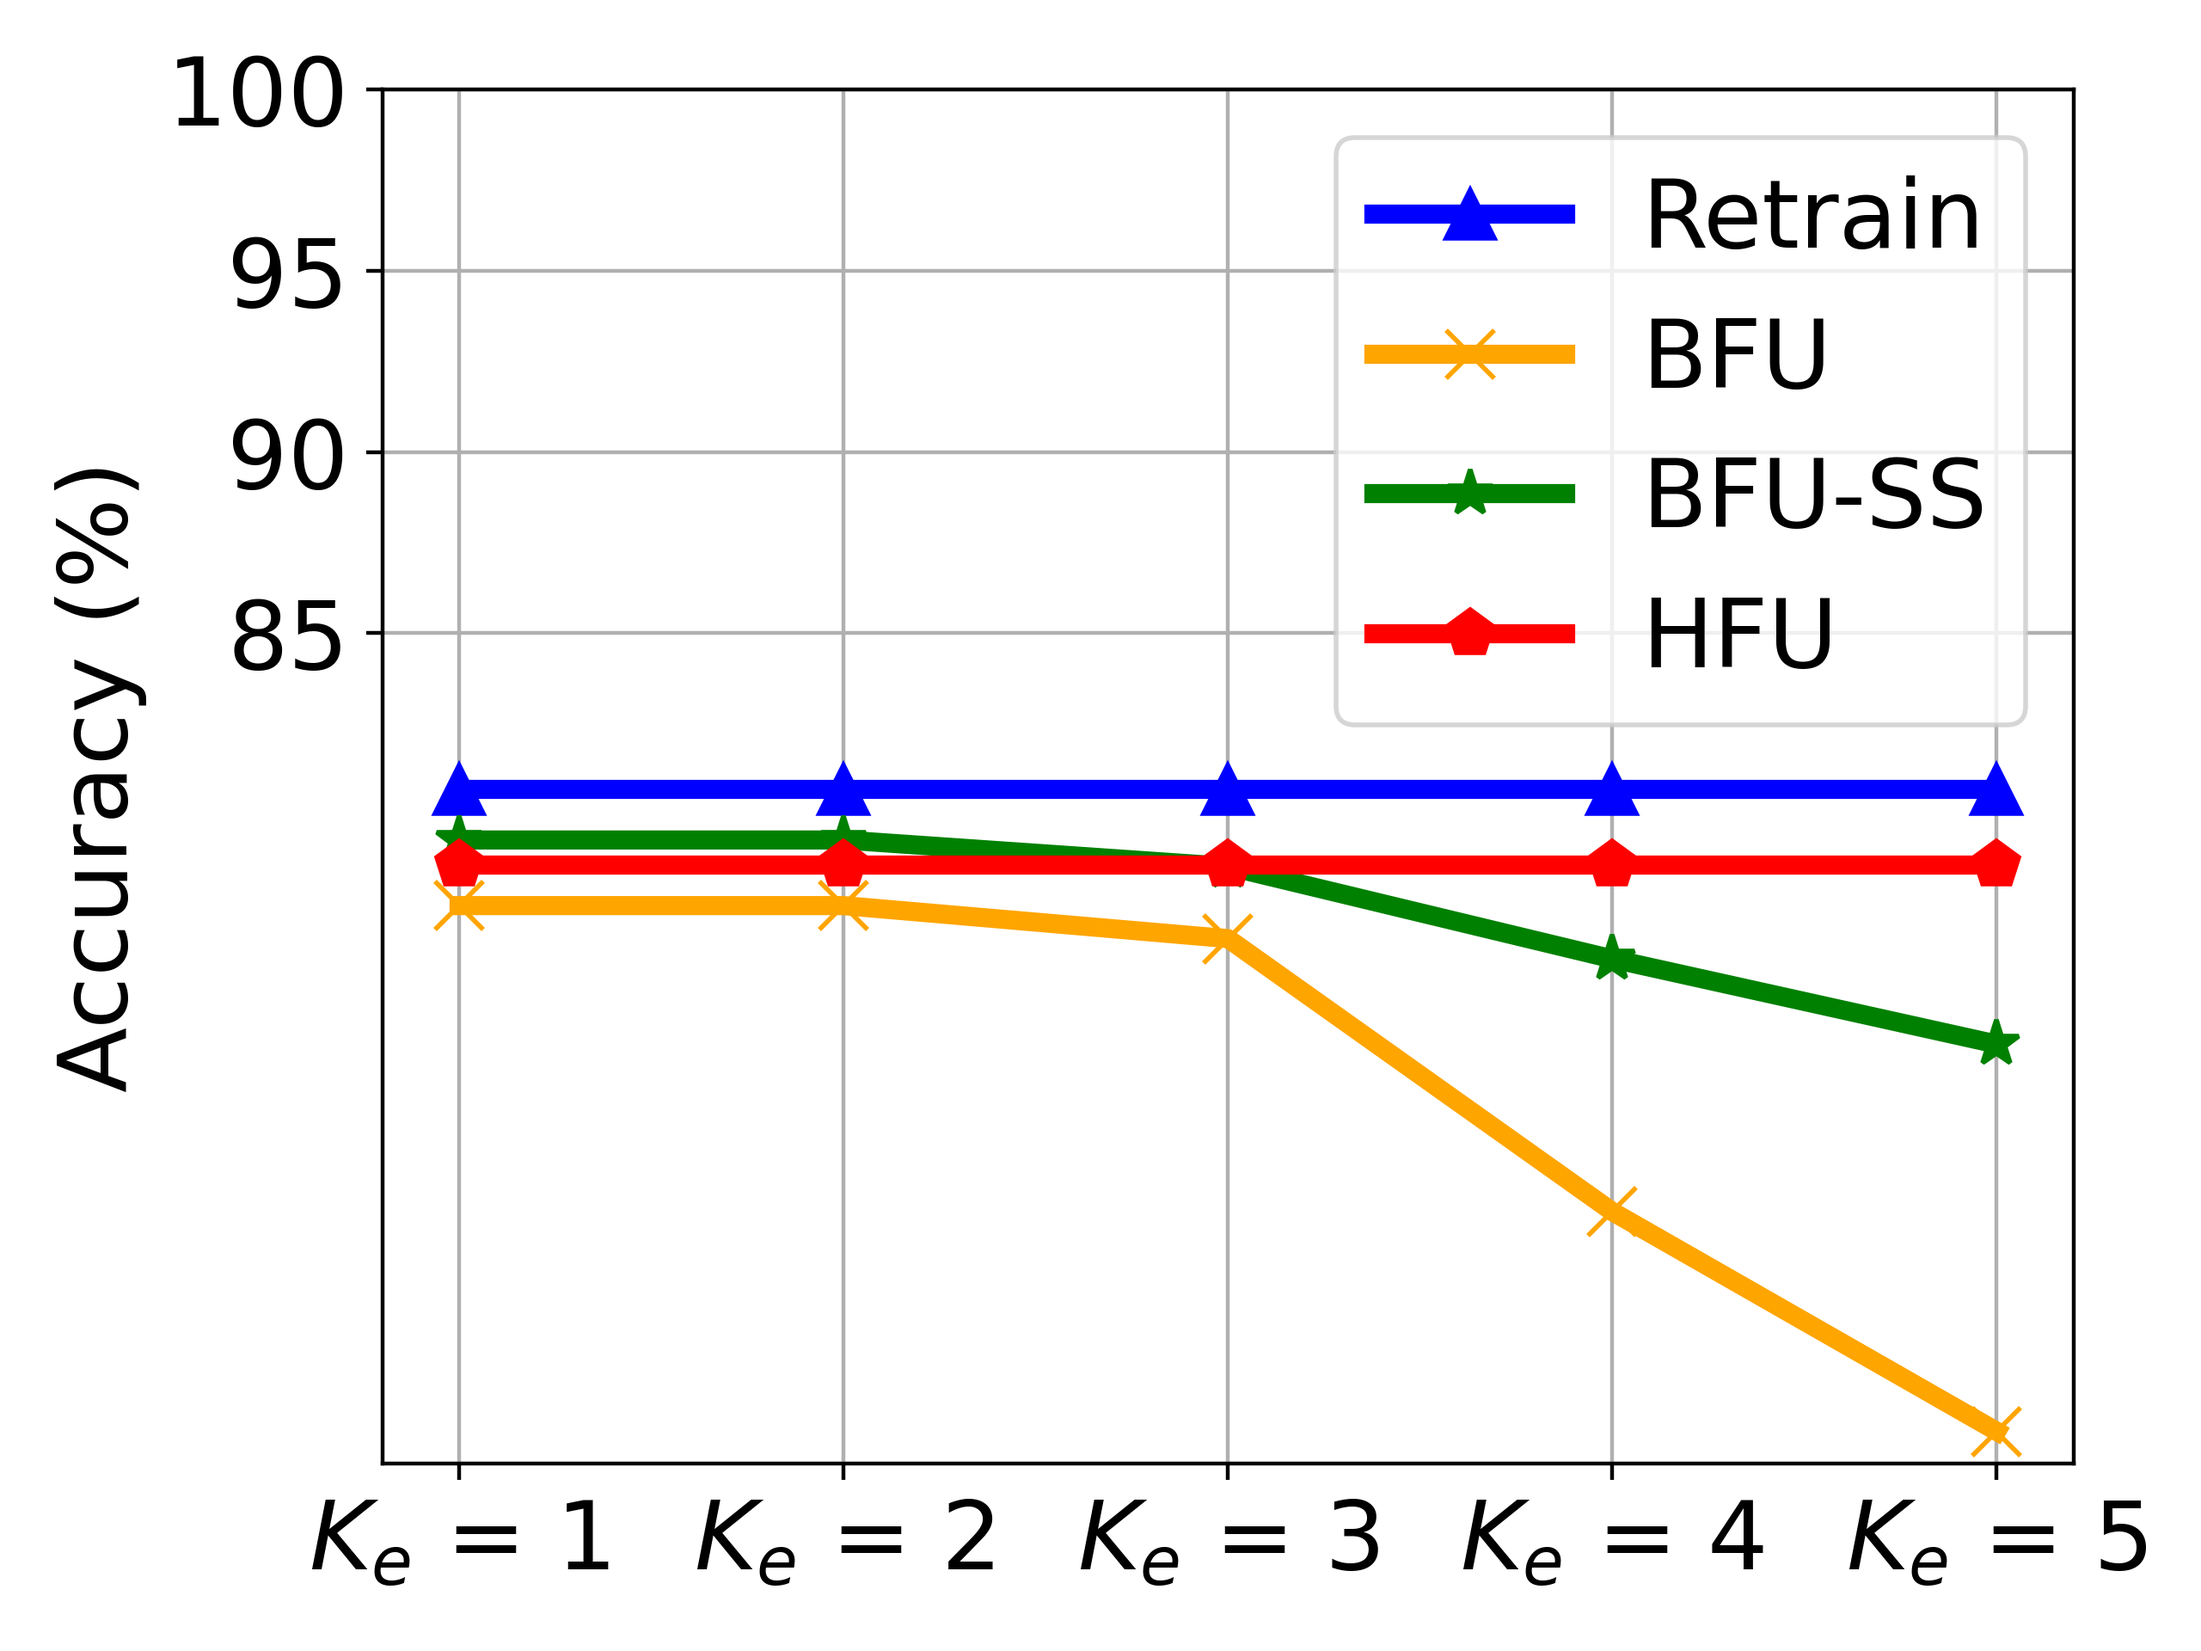
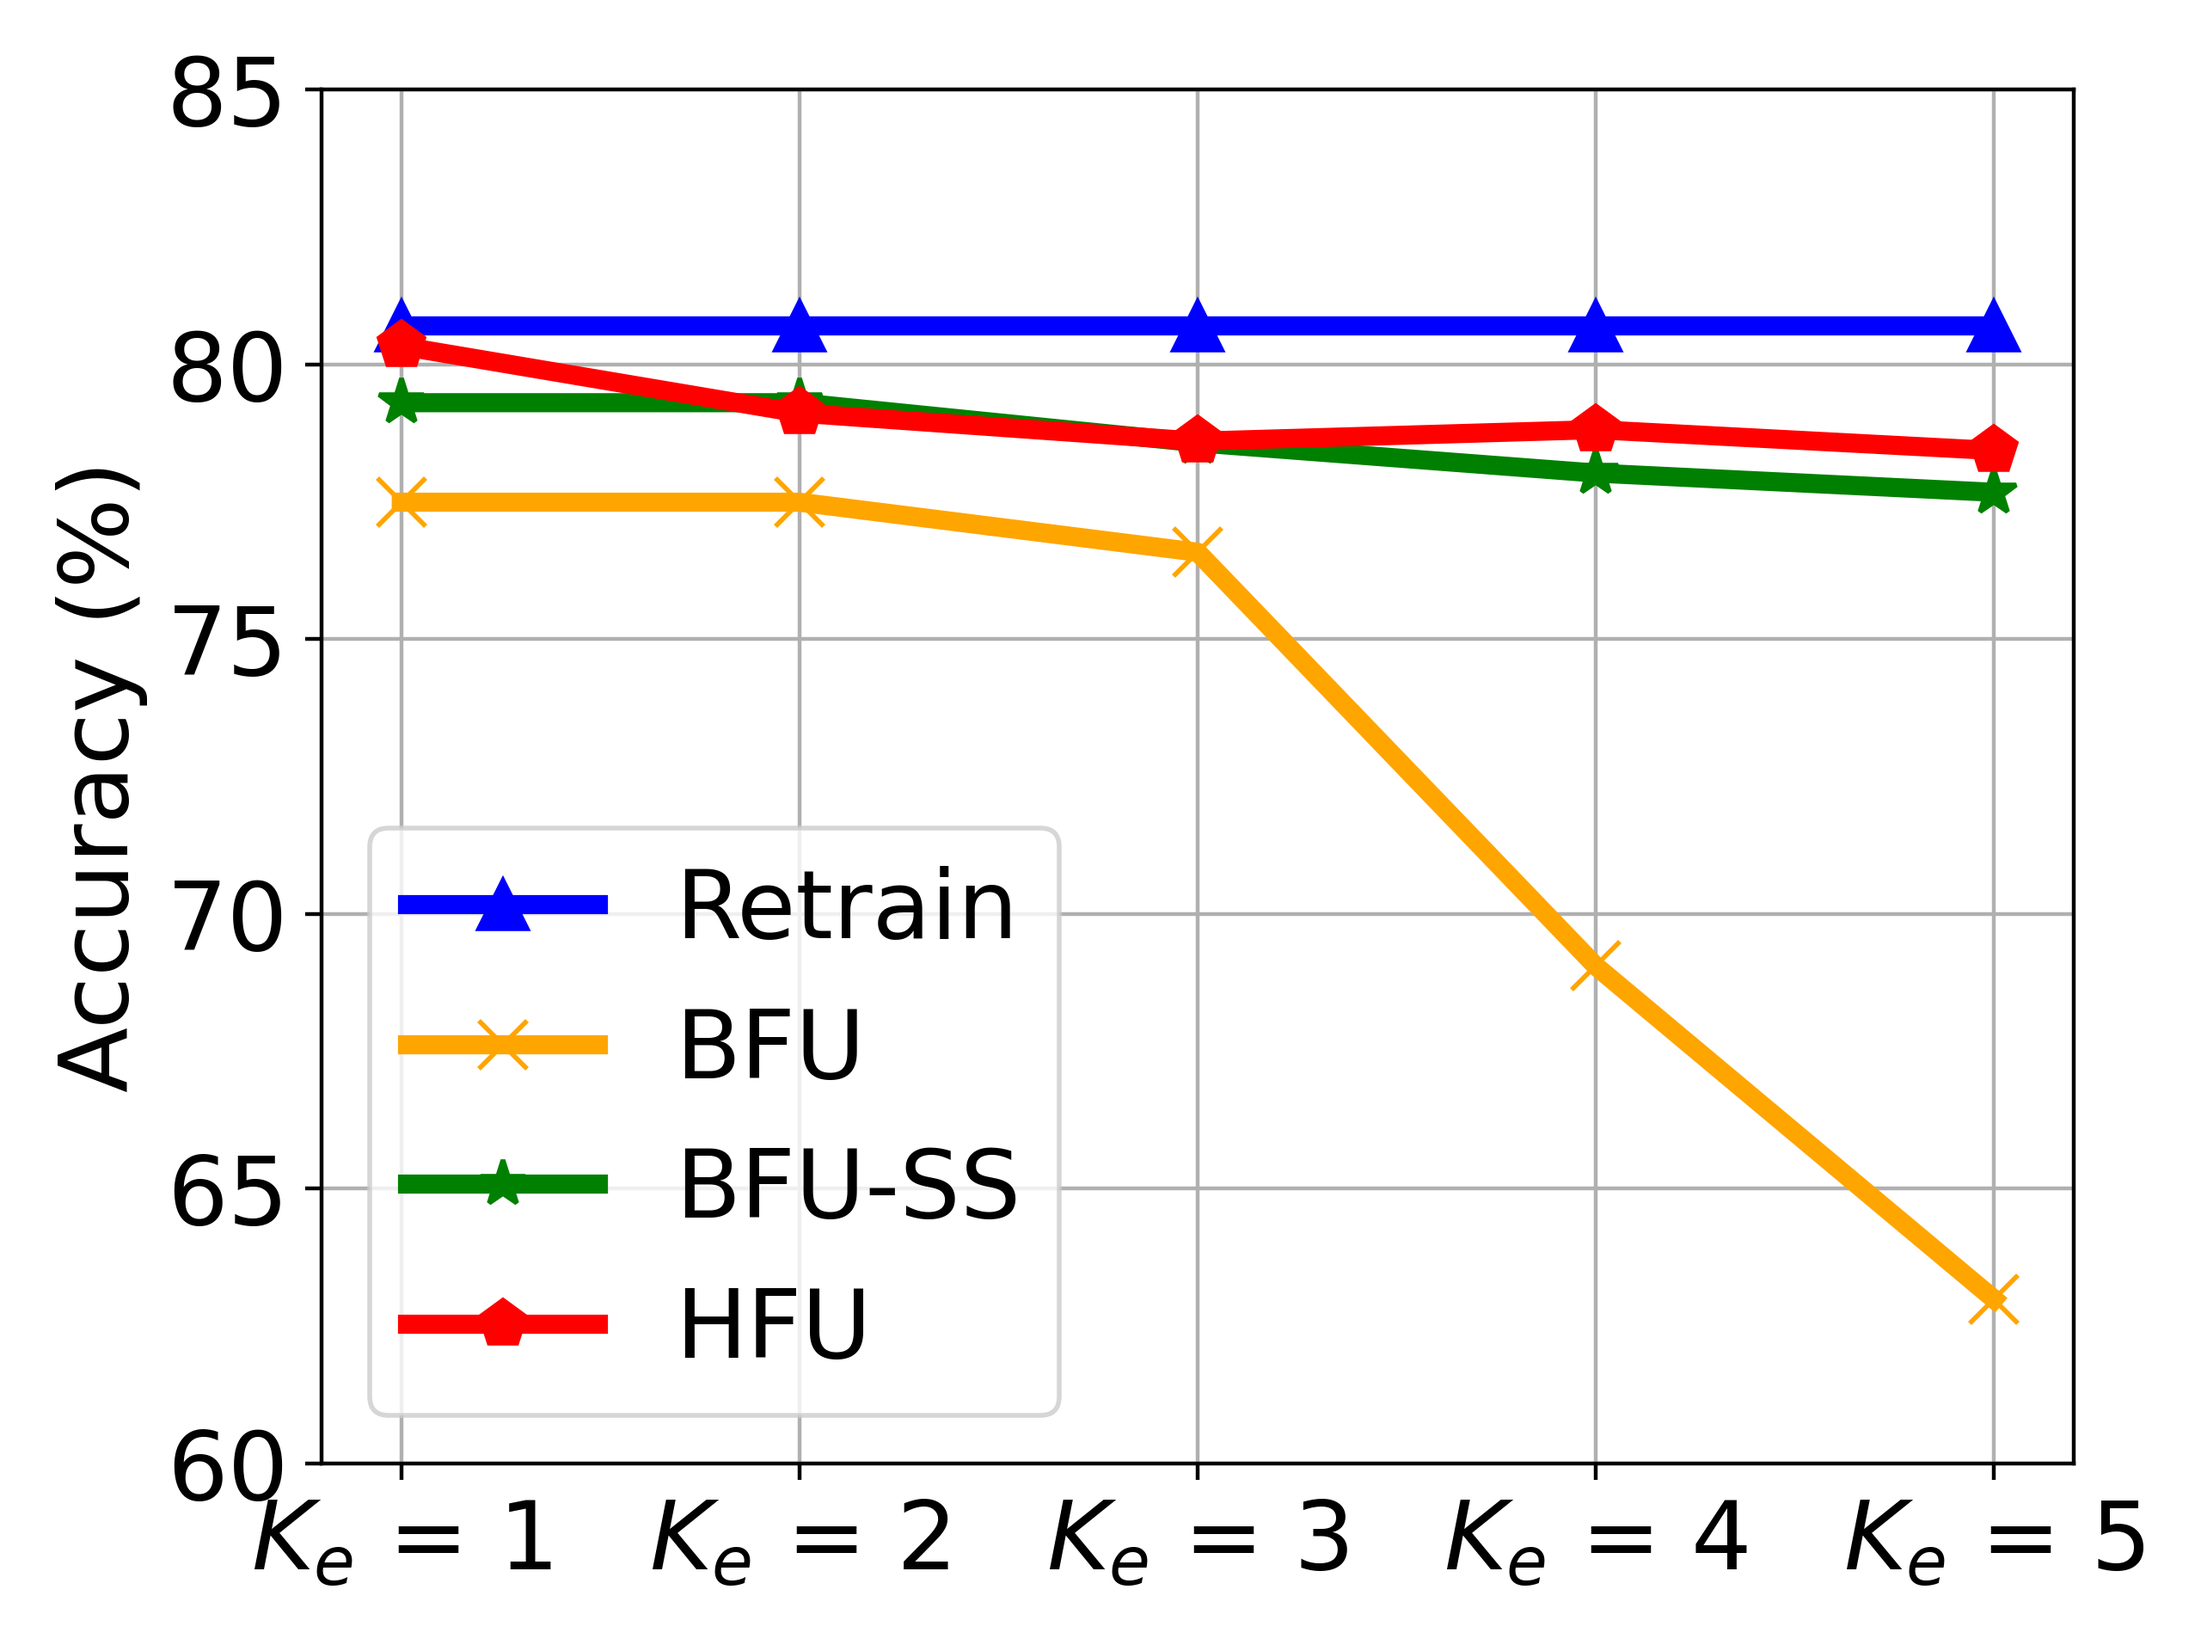
update

diff --git a/Experiment_results/CIFAR10/Server_KLD/cifar10_KLD_ke_bar.py b/Experiment_results/CIFAR10/Server_KLD/cifar10_KLD_ke_bar.py
@@ -3,10 +3,10 @@ import numpy as np
 
 # user num = 50
 labels = ['$K_e$ = 1', '$K_e$ = 2', '$K_e$ = 3', '$K_e$ = 4', '$K_e$ = 5']
-unl_fr = [42, 42 * 42/42 , 24.84*42/24.84, 28*42/28, 33.94*42/33.94]
-unl_br = [41.04, 41.04* 42/42, 23.73*42/24.84, 33*42/28, 40*42/33.94]
-unl_self_r = [41.16, 41.16* 42/42, 21.87*42/24.84, 36*42/28, 39*42/33.94]
-unl_hess_r = [21.82,  21.82*42/42, 21.82*42/24.84, 21.82*42/28, 21.82*42/33.94]
+unl_fr = [42, 23.80 * 42/23.80 , 24.84*42/24.84, 28*42/28, 33.94*42/33.94]
+unl_br = [26.77, 18.41* 42/23.80, 23.73*42/24.84, 21*42/28, 32*42/33.94]
+unl_self_r = [26, 16.73* 42/23.80, 21.87*42/24.84, 24*42/28, 33*42/33.94]
+unl_hess_r = [32.63,  21*42/23.80, 21.82*42/24.84, 24.74*42/28, 32.03*42/33.94]
 
 x = np.arange(len(labels))  # the label locations
 width = 0.6  # the width of the bars

diff --git a/Federated_learning/BackdoorFedUnl/BackdoorFedAvg.py b/Federated_learning/BackdoorFedUnl/BackdoorFedAvg.py
@@ -27,7 +27,7 @@ from torchvision import datasets, transforms
 import matplotlib.pyplot as plt
 
 # from VIBImodels import ResNet, resnet18, resnet34, Unet
-
+import time
 # from debug import debug
 import torch.nn as nn
 import torch.optim
@@ -1175,8 +1175,11 @@ class LocalUpdate(object):
 
         for epoch in range(self.args.local_ep):
             step_start = epoch * len(self.ldr_train)
+            start = time.clock()
             net, optimizer = LocalUpdate.learning_train(self.ldr_train, net, step_start, self.loss_func, reconstruction_function,
                                              optimizer, args, epoch,idx)
+            end = time.clock()
+            print("running time of one epoch", end - start)
             # net.eval()
         return net.state_dict()
 

diff --git a/Experiment_results/CIFAR10/Server_acc/cifar10_Acc_ke_curve.py b/Experiment_results/CIFAR10/Server_acc/cifar10_Acc_ke_curve.py
@@ -15,8 +15,8 @@ x=[1, 2, 3, 4, 5]
 labels = ['$K_e$ = 1', '$K_e$ = 2', '$K_e$ = 3', '$K_e$ = 4', '$K_e$ = 5']
 unl_fr = [80.7, 80.7, 80.7, 80.7, 80.7]
 unl_br = [77.49, 77.49, 76.58, 69.05, 62.99]
-unl_self_r = [79.3, 79.3, 78.57, 76.02, 73.67]
-unl_hess_r = [78.6,  78.6, 78.6, 78.6, 78.6]
+unl_self_r = [79.3, 79.3, 78.57, 78.02, 77.67]
+unl_hess_r = [80.33,  79.11, 78.6, 78.81, 78.43]
 
 
 
@@ -36,7 +36,7 @@ plt.grid()
 leg = plt.legend(fancybox=True, shadow=True)
 # plt.xlabel('Malicious Client Ratio (%)' ,fontsize=16)
 plt.ylabel('Accuracy (%)' ,fontsize=20)
-my_y_ticks = np.arange(85 ,105,5)
+my_y_ticks = np.arange(60 ,90,5)
 plt.yticks(my_y_ticks,fontsize=20)
 
 

diff --git a/Federated_learning/BackdoorFedUnl/BackdoorUnl_cifar/CIFAR_KLD_conve.py b/Federated_learning/BackdoorFedUnl/BackdoorUnl_cifar/CIFAR_KLD_conve.py
@@ -3,6 +3,7 @@ import sys
 sys.argv = ['']
 del sys
 
+import time
 import numpy as np
 import os
 import math
@@ -1186,8 +1187,11 @@ class LocalUpdate(object):
 
         for epoch in range(self.args.local_ep):
             step_start = epoch * len(self.ldr_train)
+            start = time.clock()
             net, optimizer = LocalUpdate.learning_train(self.ldr_train, net, step_start, self.loss_func, reconstruction_function,
                                              optimizer, args, epoch,idx)
+            end = time.clock()
+            print('running time of each epoch', end - start)
             # net.eval()
         return net.state_dict()
 

diff --git a/Experiment_results/CIFAR10/Server_backacc/cifar_BackAcc_ke_curve.py b/Experiment_results/CIFAR10/Server_backacc/cifar_BackAcc_ke_curve.py
@@ -15,8 +15,8 @@ x=[1, 2, 3, 4, 5]
 labels = ['$K_e$ = 1', '$K_e$ = 2', '$K_e$ = 3', '$K_e$ = 4', '$K_e$ = 5']
 unl_fr = [0.2, 0.2 , 0.2, 0.2, 0.2]
 unl_br = [20, 20, 8., 1.8, 0.4]
-unl_self_r = [31, 32, 9, 0.9, 1.8]
-unl_hess_r = [0.79,  2.55, 8.04, 96.3, 100]
+unl_self_r = [25, 22, 9, 0.9, 1.8]
+unl_hess_r = [13.3,  17.7, 8.04, 14.4, 8.7]
 
 
 
@@ -36,7 +36,7 @@ plt.grid()
 leg = plt.legend(fancybox=True, shadow=True)
 # plt.xlabel('Malicious Client Ratio (%)' ,fontsize=16)
 plt.ylabel('Backdoor Accuracy (%)' ,fontsize=20)
-my_y_ticks = np.arange(0 ,110,20)
+my_y_ticks = np.arange(0 ,32,5)
 plt.yticks(my_y_ticks,fontsize=20)
 
 

diff --git a/Federated_learning/BackdoorFedUnl/BackdoorUnl_cifar/CIFAR10_1u_10e.py b/Federated_learning/BackdoorFedUnl/BackdoorUnl_cifar/CIFAR10_1u_10e.py
@@ -2618,8 +2618,8 @@ if __name__ == '__main__':
     args.erased_portion = 0.1
     args.erased_local_r = 0.1
     ## in unlearning, we should make the unlearned model first be backdoored and then forget the trigger effect
-    args.unlearn_learning_rate = 0.1
-    args.self_sharing_rate = 0.1
+    args.unlearn_learning_rate = 10
+    args.self_sharing_rate = 10
     args.reverse_rate = 1
     args.unl_KLD_lr = 1
     args.unl_conver_r = 2

diff --git a/Federated_learning/BackdoorFedUnl/BackdoorUnl_cifar/CIFAR10_2u_10e.py b/Federated_learning/BackdoorFedUnl/BackdoorUnl_cifar/CIFAR10_2u_10e.py
@@ -2618,8 +2618,8 @@ if __name__ == '__main__':
     args.erased_portion = 0.2
     args.erased_local_r = 0.1
     ## in unlearning, we should make the unlearned model first be backdoored and then forget the trigger effect
-    args.unlearn_learning_rate = 0.1
-    args.self_sharing_rate = 0.1
+    args.unlearn_learning_rate = 10
+    args.self_sharing_rate = 10
     args.reverse_rate = 1
     args.unl_KLD_lr = 1
     args.unl_conver_r = 2

diff --git a/Experiment_results/CIFAR10/Server_runtime/cifar_rt_ke_bar.py b/Experiment_results/CIFAR10/Server_runtime/cifar_rt_ke_bar.py
@@ -4,9 +4,9 @@ import numpy as np
 # user num = 50
 labels = ['$K_e$ = 1', '$K_e$ = 2', '$K_e$ = 3', '$K_e$ = 4', '$K_e$ = 5']
 unl_fr = [40, 40, 40, 40, 40]
-unl_br = [10, 10, 6, 1, 1]
-unl_self_r = [10, 10, 10, 3, 1]
-unl_hess_r = [18,  18, 18, 18, 18]
+unl_br = [40, 20, 6, 1, 1]
+unl_self_r = [40, 25, 10, 3, 1]
+unl_hess_r = [40,  27, 18, 22, 15]
 
 x = np.arange(len(labels))  # the label locations
 width = 0.6  # the width of the bars
